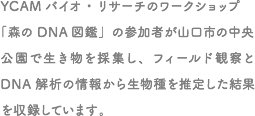
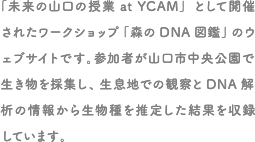
アバウトページのテキストを更新

diff --git a/source/dna-of-forests/chuo-park/components/about.vue b/source/dna-of-forests/chuo-park/components/about.vue
@@ -50,6 +50,10 @@ article.about
       h4
         imgr(:alt="$t('chuo-park.about.ycam-bioresearch.title')" src='about/ycam-bioresearch.png' locale global)
       p(v-html="$t('chuo-park.about.ycam-bioresearch.body')")
+    h4(v-html="$t('chuo-park.about.ycam-education-team.title')")
+    p(v-html="$t('chuo-park.about.ycam-education-team.body')")
+    h4(v-html="$t('chuo-park.about.ycam-support-staff.title')")
+    p(v-html="$t('chuo-park.about.ycam-support-staff.body')")
     h3#production
       imgr(:alt="$t('chuo-park.about.production')" src='about/title-production.png' locale global)
     p
